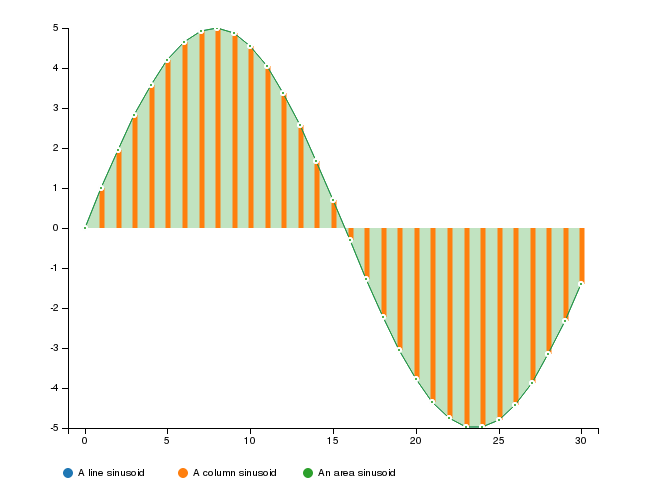
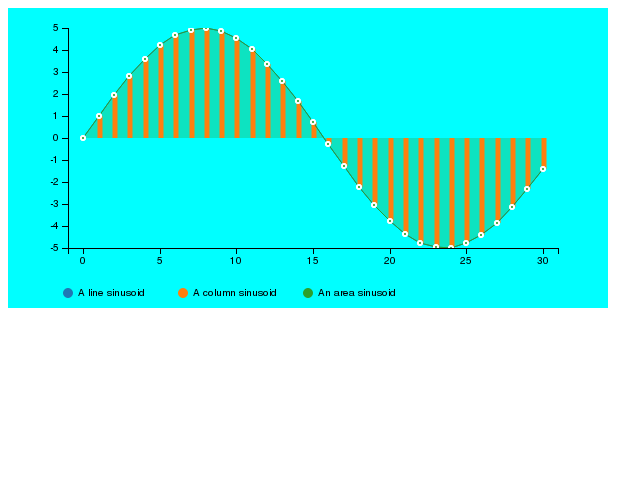
quick render PNG; add background color

diff --git a/routes/exporting.js b/routes/exporting.js
@@ -2,6 +2,51 @@ var path = require('path');
 
 var phantom = require('node-phantom');
 
+exports.renderPng = function(req, res) {
+  chartData = JSON.parse(req.body.chart);
+  res.render('export', {
+    title: 'PNG',
+    chart: chartData
+  });
+};
+
+exports.exportPng = function(req, res) {
+  var data = "chart="+JSON.stringify(req.body.chart);
+  var host = req.protocol + '://' + req.get('Host');
+  var url = host+"/render/png";
+
+  phantom.create(function (error, ph) {
+    if(!ph) {
+      res.status(500);
+      console.log('no PhantomJS');
+      return;
+    }
+
+    ph.createPage(function (error, page) {
+      page.setViewport({width: 640, height: 480}, function(err) {
+
+        page.post(url, data, function(err, status) {
+          console.log("opened page? ", status, err, url);
+
+          page.render('page.png', function (error) {
+            if (error) {
+              console.log('Error rendering PDF: %s', error);
+            } else {
+              res.download('page.png');
+            }
+          });
+
+          ph.exit();
+        });
+
+      });
+
+    });
+  });
+
+};
+
+
 exports.renderPdf = function(req, res) {
   chartData = JSON.parse(req.body.chart);
   res.render('export', {
@@ -23,7 +68,6 @@ exports.exportPdf = function(req, res) {
     }
 
     ph.createPage(function (error, page) {
-      // page.setViewport({width: 640, height: 480}, function(err) {
       page.setPaperSize({ width: '800px', height: '600px', border: '0px' },
         function(err) {
 

diff --git a/app.js b/app.js
@@ -33,6 +33,9 @@ app.get('/', routes.index);
 app.post('/render/pdf', exporting.renderPdf);
 app.post('/export/pdf', exporting.exportPdf);
 
+app.post('/render/png', exporting.renderPng);
+app.post('/export/png', exporting.exportPng);
+
 
 http.createServer(app).listen(app.get('port'), function(){
   console.log('Express server listening on port ' + app.get('port'));
